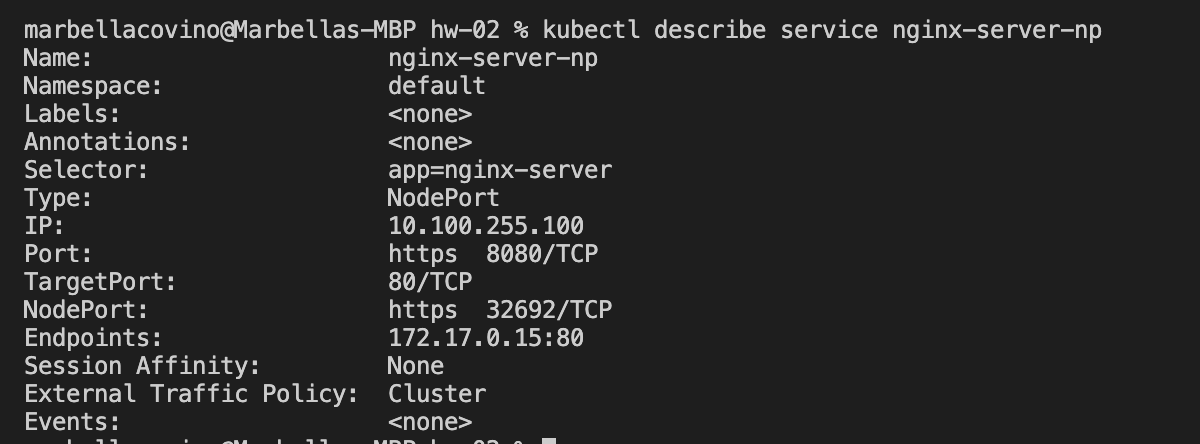
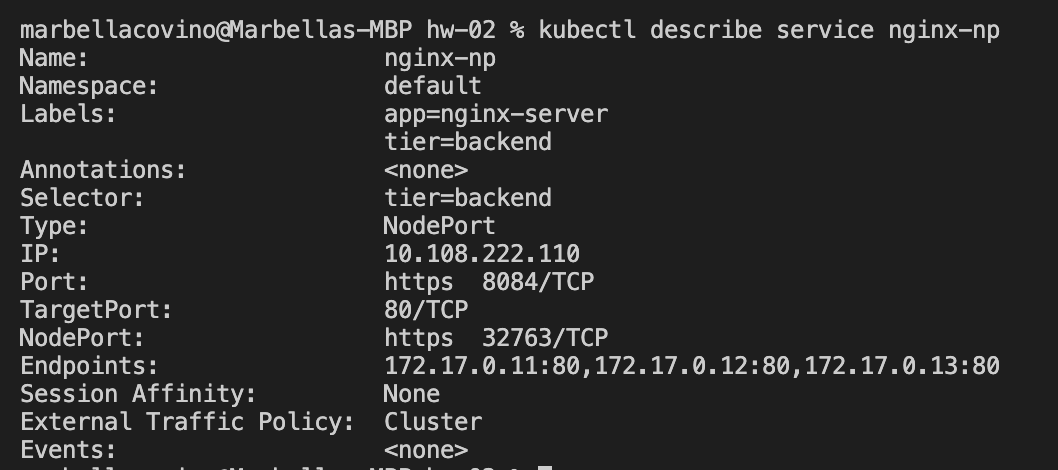
exercise3

Changed region(s): [[0.0, 0.0293, 0.9669, 1.0], [0.4991, 0.9955, 0.5302, 1.0]]

diff --git a/hw-02/answer_exercise_3/answer_exercise_3.md b/hw-02/answer_exercise_3/answer_exercise_3.md
@@ -121,10 +121,13 @@ Configuramos nuestro yaml como se muestra a continuación:
 apiVersion: v1
 kind: Service
 metadata:
-  name: nginx-server-np
+  name: nginx-np
+  labels:
+    app: nginx-server
+    tier: backend
 spec:
   selector:
-    app: nginx-server
+    tier: backend
   type: NodePort
   ports:
     - protocol: TCP
@@ -146,7 +149,7 @@ $ kubectl get services
 
 ```sh
 
-$ kubectl describe service nginx-server
+$ kubectl describe service nginx-np
 
 ```
 
@@ -154,13 +157,13 @@ $ kubectl describe service nginx-server
 
 Para verificar que mi servicio funciona correctamente:
 
-Hago un curl de mi nginx NodePort Service < MINIKUBE-IP >:< PORT >
+Hago un curl de mi servicio < MINIKUBE-IP >:< PORT >
 
 ```sh
 
 $ minikube ip
 
-$ curl 192.168.64.2:32692
+$ curl 192.168.64.2:32763
 
 ```
 
